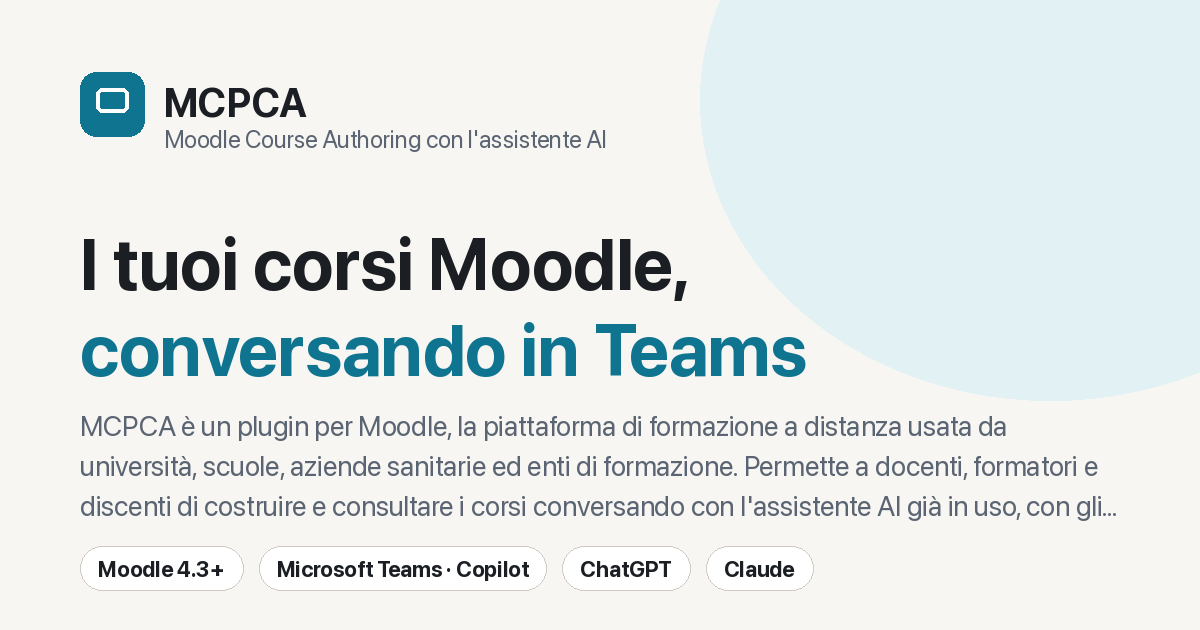
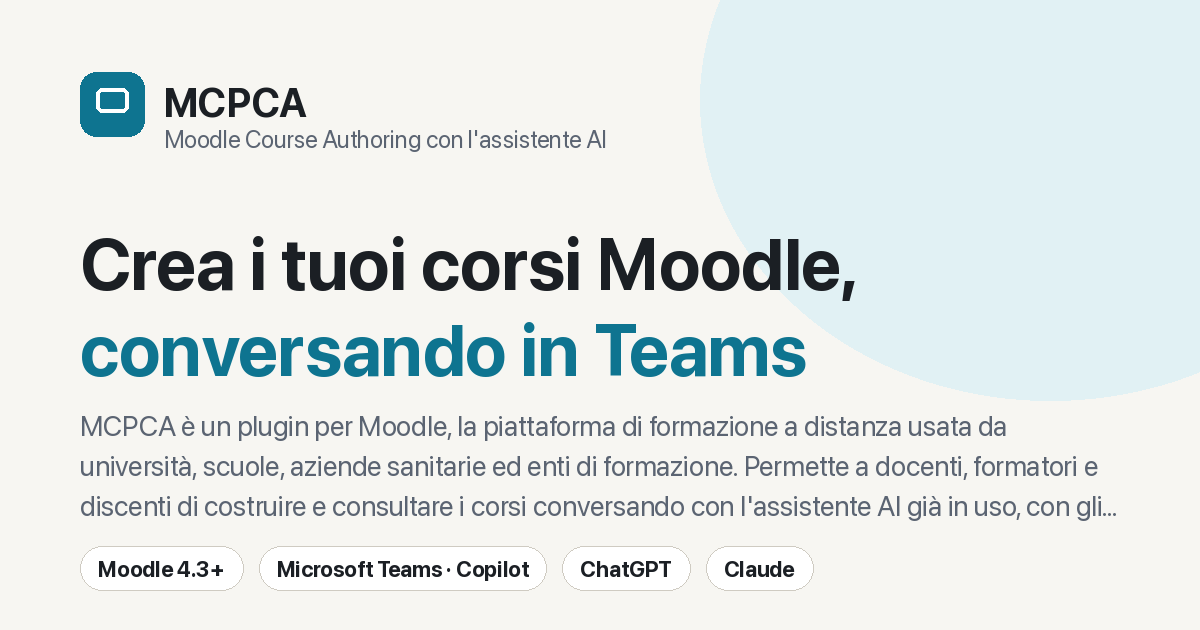
feat: a rotating verb opens the hero title
The headline said what the project is, not what you can do with it. It now opens
with a verb that changes: Crea, Aggiorna, Interroga, Ripassa (Build, Update,
Search, Study), covering both the teacher and the learner side.

Two details that made it work rather than distract:
- one timer drives both rotating slots, so the headline re-forms in a single
  beat instead of twitching in two places at different times
- the verb sits on its own line: mid-line, the width reserved for the longest
  verb left a visible gap after a short one like 'Crea'

On short screens the title steps down to 45px so the diagram and the buttons
stay above the fold.

Changed region(s): [[0.0617, 0.3619, 0.7092, 0.4825]]

diff --git a/static/main.js b/static/main.js
@@ -55,36 +55,55 @@
     }
   });
 
-  // Rotating word in the hero title (Teams -> Copilot -> ChatGPT -> Claude)
-  document.querySelectorAll('.rotate').forEach(function (el) {
-    var words;
-    try { words = JSON.parse(el.getAttribute('data-words')); } catch (e) { return; }
-    if (!words || words.length < 2) return;
-    // Reserve the width of the longest word so the heading does not reflow.
-    // Measured only once the webfont is in place: measuring against the
-    // fallback font gives the wrong width and shifts the page when the real
-    // font arrives.
-    function reserveWidth() {
-      var probe = document.createElement('span');
-      probe.style.cssText = 'position:absolute;visibility:hidden;white-space:nowrap;font:inherit';
-      el.parentNode.appendChild(probe);
-      var max = 0;
-      words.forEach(function (w) { probe.textContent = w; max = Math.max(max, probe.getBoundingClientRect().width); });
-      probe.remove();
-      if (max) el.style.minWidth = Math.ceil(max) + 'px';
+  // Rotating words in the hero title (verb, and the assistant's name).
+  // A single timer drives every slot, so the whole headline re-forms in one
+  // beat: two words changing out of step make the eye jump.
+  (function () {
+    var slots = [].slice.call(document.querySelectorAll('.rotate')).map(function (el) {
+      var words;
+      try { words = JSON.parse(el.getAttribute('data-words')); } catch (e) { return null; }
+      return (words && words.length > 1) ? { el: el, words: words } : null;
+    }).filter(Boolean);
+    if (!slots.length) return;
+
+    // Reserve the width of the longest word in each slot so the heading never
+    // reflows. Measured once the webfont is in place: against the fallback font
+    // the width is wrong and the page shifts when the real font arrives.
+    function reserveWidths() {
+      slots.forEach(function (slot) {
+        var probe = document.createElement('span');
+        probe.style.cssText = 'position:absolute;visibility:hidden;white-space:nowrap;font:inherit';
+        slot.el.parentNode.appendChild(probe);
+        var max = 0;
+        slot.words.forEach(function (w) {
+          probe.textContent = w;
+          max = Math.max(max, probe.getBoundingClientRect().width);
+        });
+        probe.remove();
+        if (max) slot.el.style.minWidth = Math.ceil(max) + 'px';
+      });
     }
     if (document.fonts && document.fonts.ready) {
-      document.fonts.ready.then(reserveWidth).catch(reserveWidth);
+      document.fonts.ready.then(reserveWidths).catch(reserveWidths);
     } else {
-      reserveWidth();
+      reserveWidths();
     }
+
     var reduce = window.matchMedia && window.matchMedia('(prefers-reduced-motion: reduce)').matches;
     var i = 0;
     setInterval(function () {
-      i = (i + 1) % words.length;
-      if (reduce) { el.textContent = words[i]; return; }
-      el.classList.add('is-out');
-      setTimeout(function () { el.textContent = words[i]; el.classList.remove('is-out'); }, 350);
-    }, 2600);
-  });
+      i += 1;
+      if (reduce) {
+        slots.forEach(function (s) { s.el.textContent = s.words[i % s.words.length]; });
+        return;
+      }
+      slots.forEach(function (s) { s.el.classList.add('is-out'); });
+      setTimeout(function () {
+        slots.forEach(function (s) {
+          s.el.textContent = s.words[i % s.words.length];
+          s.el.classList.remove('is-out');
+        });
+      }, 350);
+    }, 3000);
+  })();
 })();

diff --git a/static/style.css b/static/style.css
@@ -650,10 +650,17 @@ em { font-style: italic; }
    si stringe quel tanto che basta a tenere schema, riga di raccordo e pulsanti
    sopra la piega. Sui monitor grandi resta arioso. */
 @media (min-width: 961px) and (max-height: 800px) {
-  .hero { padding-top: 18px; }
-  .hero-copy .lead-promise { font-size: 1.16rem; line-height: 1.45; }
-  .hero-copy .flow { margin-top: 14px; }
+  .hero { padding-top: 14px; }
+  /* Con il verbo in testa il titolo occupa tre righe: su uno schermo basso
+     vale la pena rimpicciolirlo un poco per tenere i pulsanti sopra la piega. */
+  .hero h1 { font-size: clamp(2rem, 3.6vw, 2.85rem); margin-bottom: .3em; }
+  .hero-copy .lead-intro { font-size: 1rem; margin-bottom: .4em; }
+  .hero-copy .lead-promise { font-size: 1.12rem; line-height: 1.42; }
+  .hero-copy .flow { margin-top: 12px; }
   .hero-copy .flow-caption { margin-top: 6px; }
-  .hero-note { margin-top: 12px; padding-top: 12px; }
-  .hero-copy .cta-row { margin-top: 14px; }
+  .hero-note { margin-top: 10px; padding-top: 10px; font-size: .94rem; }
+  .hero-copy .cta-row { margin-top: 12px; }
 }
+
+.hero h1 .t-line { display: block; }
+.rotate-verb { text-align: left; }

diff --git a/make_og.py b/make_og.py
@@ -124,7 +124,8 @@ for lang in ("it", "en"):
     card(
         brand=t["brand"]["name"],
         tagline=t["brand"]["tagline"],
-        title=f'{t["hero"]["title_a"]} {t["hero"]["title_b_prefix"]} {t["hero"]["title_words"][0]}',
+        title=(f'{t["hero"]["title_verbs"][0]} {t["hero"]["title_a"]} '
+               f'{t["hero"]["title_b_prefix"]} {t["hero"]["title_words"][0]}'),
         description=t["meta"]["description"],
         chips=["Moodle 4.3+", "Microsoft Teams · Copilot", "ChatGPT", "Claude"],
         out=ROOT / "static" / f"og-{lang}.png",
